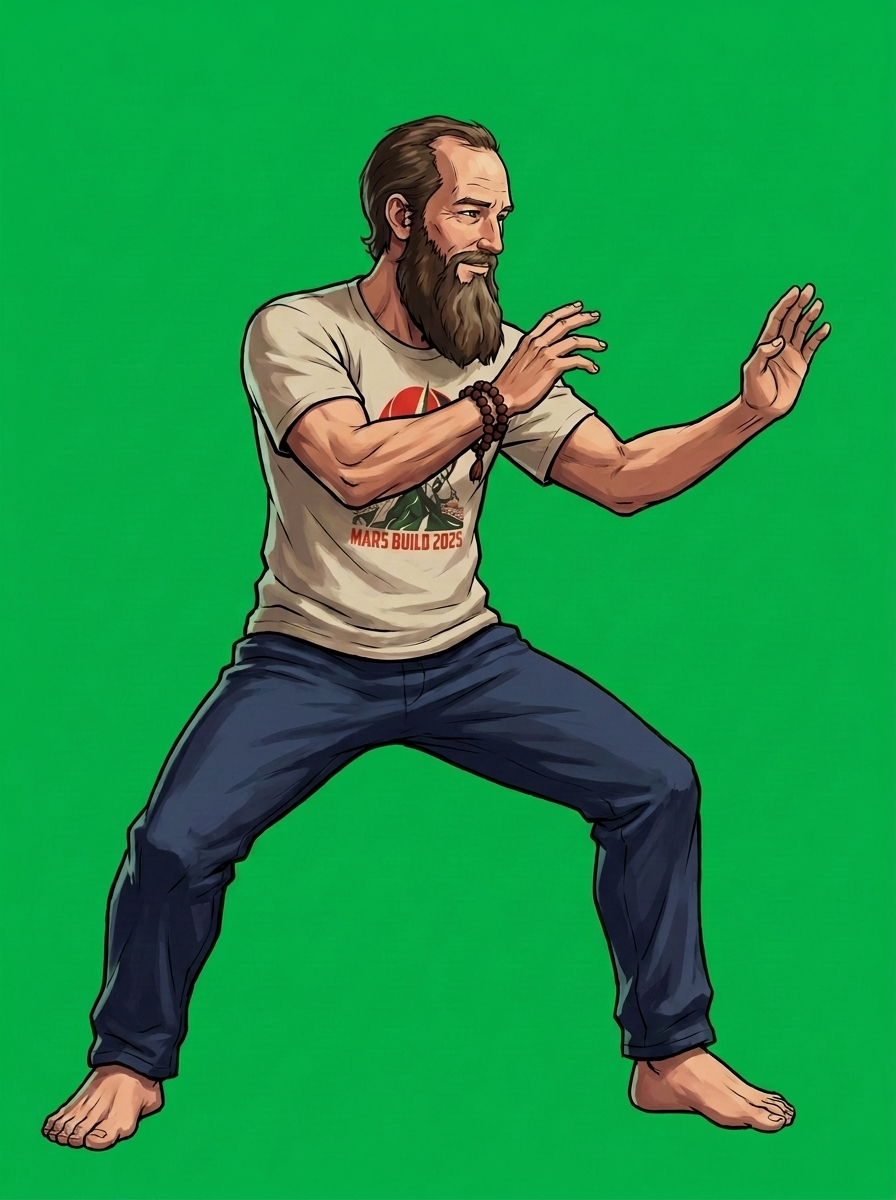
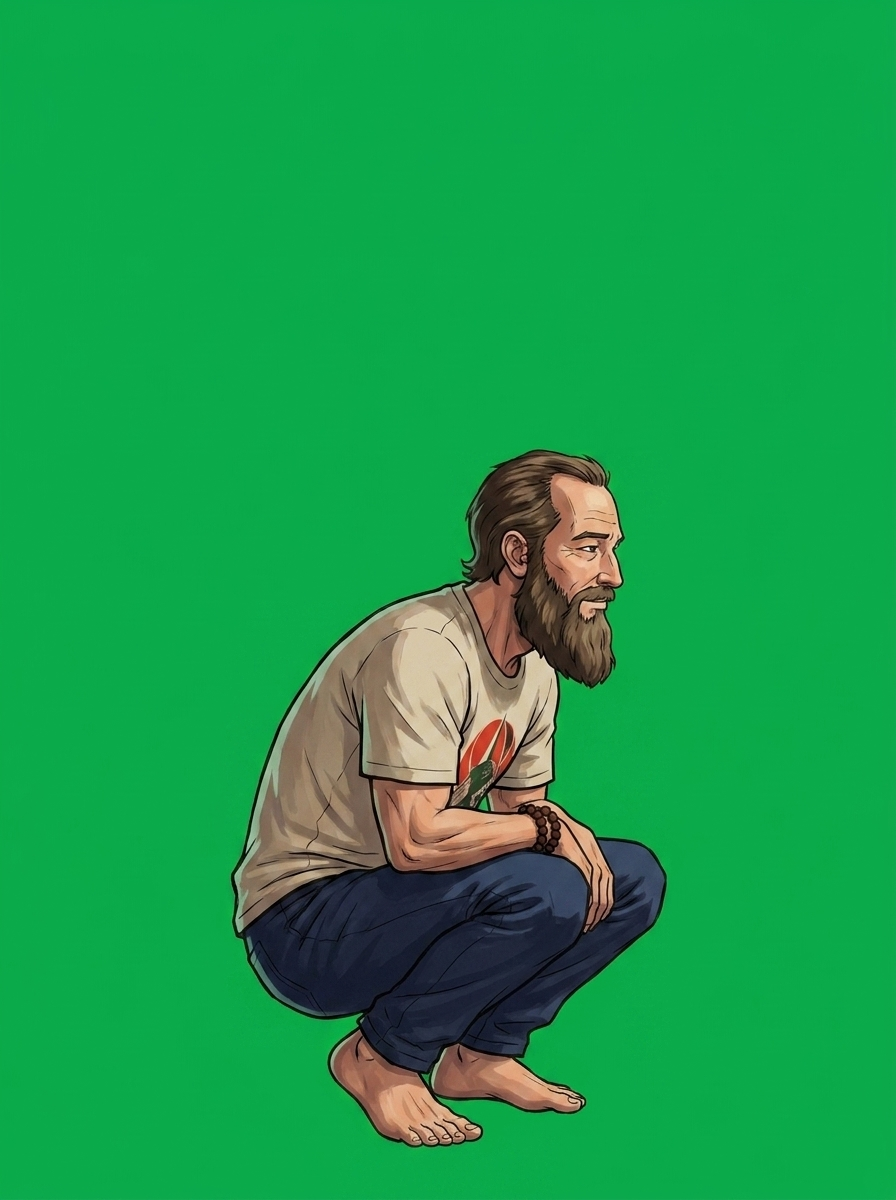
data+assets: win-quote polish + freeman crouch raw
Punchier SFII victory taunts for Chebel, Flo, Gene, Kirby, Marzipan;
commit updated freeman/04-crouch raw (already in the packed sheet).
SPRINTBOARD changelog updated.

diff --git a/SPRINTBOARD.md b/SPRINTBOARD.md
@@ -743,6 +743,14 @@ fixed-screen SF2 framing is intentional).
 
 *(newest first; add one entry per commit: date · scope · what changed · by whom/agent)*
 
+- **2026-07-04 · data+assets · win-quote polish + Freeman crouch raw** — tightened
+  SFII-style victory taunts for **Chebel, Flo, Gene, Kirby, Marzipan** (punchier
+  rewrites; Flo's German de-unicoded to `scheisse`; Gene dropped one weak line),
+  and committed the updated `freeman/04-crouch` raw frame (already baked into the
+  packed sheet). Also lands two prior same-day commits that shipped without a
+  changelog line: **`43631ef` — repack Freeman sprite sheet** (re-keyed/re-tiled
+  from the existing 62 raw frames, no new art) and **`0702ad0` — Marzipan male
+  voice** (parallel session). *(Claude)*
 - **2026-07-04 · data+tools+assets+docs+scenes · Wave 2 chars Chebel + Ygor
   shipped (+ bundled parallel select-screen redesign)** — added **Chebel**
   ("The Spirit Deck", rushdown+summon, stage `mimos`) and **Ygor** ("Suave",